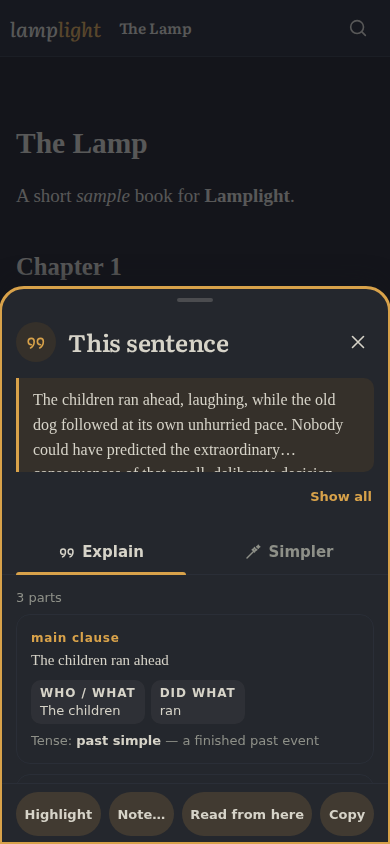
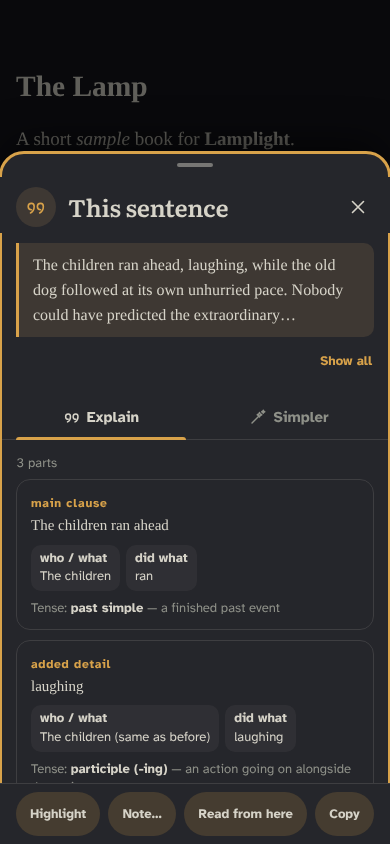
Phone reading screen: README, screenshot and version
The README describes the phone's reading screen (the strip, the lamp
and the dock), the Pages-flow gestures on a phone, the day and night
pair and its holds, zen's faint lamp, the two-tile More sheet, the
interface typeface and the phone Text sheet, and lists the new test
suites. The phone screenshot is remade, the service worker's version
goes up so installed copies update, and a leftover e-ink rule for the
old reading row is gone.

Claude-Session: https://claude.ai/code/session_01S84CT7SXHnTF63as5uaRsZ

diff --git a/app.css b/app.css
@@ -2510,10 +2510,8 @@
   body.eink :is(#updateToast #updateReload, #einkToast #einkYes){background:#000 !important; color:#fff;}
   body.eink :is(#updateToast #updateLater, #einkToast #einkNo){border-color:transparent;}
   body.eink #toast .toast-act{color:#000; border-color:#000;}
-  /* a playing sound's tile is white on black already: its icon keeps a plain line, no grey fill;
-     the rule over the reading row is solid black */
+  /* a playing sound's tile is white on black already: its icon keeps a plain line, no grey fill */
   body.eink .snd-tiles .chip[aria-pressed="true"] svg{fill:none;}
-  body.eink #actRow{border-top-color:#000 !important;}
   /* the sleep timer's badge stays a black pill with white words */
   body.eink #tts .tts-sleep{background:#000 !important; color:#fff; border:0 !important;}
   /* greyed-out controls are whole again; a disabled one is dashed (a hidden one stays hidden) */

diff --git a/sw.js b/sw.js
@@ -1,7 +1,7 @@
 /* lamplight service worker — offline cache for everything the app is made of.
    Bump VERSION with every release: a new version installs in the background, and the app
    shows an "update ready" toast; reloading switches over to the new cache. */
-const VERSION = "2026.10.02-44";
+const VERSION = "2026.10.08-1";
 const CACHE = "lamplight-" + VERSION;
 /* the natural voices' runtime (vendor/kokoro/: kokoro-js and the 21.6 MB ONNX runtime both models run on;
    vendor/piper/: the Piper runtime and the phonemizer), kept apart from this version's cache so that it outlives a

diff --git a/README.md b/README.md
@@ -17,7 +17,7 @@ Lamplight is a progressive web app made of plain static files: no server, no acc
   <img src="docs/screenshots/notes.png" alt="Highlights in the text and the Bookmarks & notes panel" width="410">
 </p>
 <p align="center">
-  <img src="docs/screenshots/themes.png" alt="The settings sheet with thirty themes in groups and the custom theme editor with its contrast meter" width="410">
+  <img src="docs/screenshots/themes.png" alt="The settings sheet with fifty themes in groups and the custom theme editor with its contrast meter" width="410">
   &nbsp;&nbsp;
   <img src="docs/screenshots/fonts.png" alt="The Fonts panel, every family shown in its own face" width="410">
 </p>
@@ -45,11 +45,11 @@ Lamplight is a progressive web app made of plain static files: no server, no acc
 ## Features
 
 **Reading**
-- A reader's shell that stays out of the way: a thin icon bar (search, contents, read aloud, **Aa** for type, the lamp for themes, the overflow menu), two popovers for the settings you change while reading, a tabbed settings sheet for the rest, one drawer for every panel, and a single dock at the foot holding the read-aloud bar and the pager. On a phone every one of them — the popovers, the settings, the menu, the panels and the word card — is a **bottom sheet** with a handle that you can **swipe down to close**.
-- **Made for one hand on a phone**: while a book is open, Contents, **Aa**, Read aloud, the lamp and ⋯ sit in a slim row at the foot of the screen, in reach of the thumb, and go and come back with the top bar. The top bar keeps the library, the **book's title** with the chapter under it (tap it to switch between open books) and Search. Read aloud stays one tap away on every phone; hold its button for the voices. Books are named by **their own title** — an EPUB's metadata, the first heading of a Markdown, HTML or DOCX file, a DOCX's document title — in the bar, the tabs, the library, the *Up next* card and the journal, falling back to the file name without its extension.
+- A reader's shell that stays out of the way, in one plain interface typeface (Atkinson Hyperlegible, made for legibility) and sentence case throughout: a thin icon bar (search, contents, read aloud, **Aa** for type, the lamp for themes, the overflow menu), two popovers for the settings you change while reading, a tabbed settings sheet for the rest, one drawer for every panel, and a single bar at the foot holding the read-aloud player and the pager. On a phone every one of them — the popovers, the settings, the menu, the panels and the word card — is a **bottom sheet** with a handle that you can **swipe down to close**, and the Text sheet is made for a thumb: large A− and A+ buttons, line spacing and margins as three pictured choices each, and four fonts shown in their own face.
+- **Made for one hand on a phone**: while a book is open the screen is the text, with no bar at the top. A slim strip at the foot holds the time left in the chapter and the **lamp**, a round button ringed with how far you are through the book. Tap the lamp and the **dock** rises, in reach of the thumb: back to the library, the **book's title** with the chapter under it (tap it to switch between open books), Search, a slider to any page, a **Day / Night** switch, and Contents, Text, Read aloud, Theme and More, each named under its icon. A tap outside, a swipe down or Escape puts it away. Hold Read aloud for the voices. Books are named by **their own title** — an EPUB's metadata, the first heading of a Markdown, HTML or DOCX file, a DOCX's document title — in the bar, the tabs, the library, the *Up next* card and the journal, falling back to the file name without its extension.
 - Opens **PDF, EPUB, DOCX, TXT, Markdown and HTML**. Saved web pages are reduced to clean reader text (menus, cookie banners, share bars and ads stripped).
-- **Scroll** or **Pages** flow (tap the left or right edge, or swipe sideways, to turn); two pages side by side on wide screens, for PDFs too. In Pages flow a swipe down — or a tap on the top or bottom edge of the page — brings the bars back and a swipe up hides them, so tapping a word in the middle of the page always looks it up.
-- **Fifty themes**: light (Day, Sepia, Paper, Parchment, Linen, Sage, Lavender, Sky, Peach, Newsprint, Mint…), dark (Dusk, Forest, Ocean, Plum, Midnight, Graphite, Ember, Moss, Cocoa, Slate, Candle, Terminal, Amber, Noir…), two high-contrast ones, and four **collections** — Dutch (Delft blue, Vermeer, Rembrandt, Tulip field, Polder, Canals), Nature and seasons, Cozy, and Textured (handmade paper, book cloth, laid paper and vellum, with a faint surface behind the text that **Plain background** turns off) — every one checked for 4.5:1 text contrast. **Auto theme** follows the system setting or a night schedule. The lamp's popover leads with a **Day ⇄ Night** pair (hold the lamp to switch without opening it, or press `t`), then your last few themes and every theme at once — on a phone a grid of round swatches with their names.
+- **Scroll** or **Pages** flow (tap the left or right edge, or swipe sideways, to turn); two pages side by side on wide screens, for PDFs too. In Pages flow a swipe down — or a tap on the top or bottom edge of the page — brings the bars back and a swipe up hides them; on a phone, which has no bars, a swipe up or a tap on blank space in the middle or at the foot of the page opens the dock. Tapping a word in the middle of the page always looks it up.
+- **Fifty themes**: light (Day, Sepia, Paper, Parchment, Linen, Sage, Lavender, Sky, Peach, Newsprint, Mint…), dark (Dusk, Forest, Ocean, Plum, Midnight, Graphite, Ember, Moss, Cocoa, Slate, Candle, Terminal, Amber, Noir…), two high-contrast ones, and four **collections** — Dutch (Delft blue, Vermeer, Rembrandt, Tulip field, Polder, Canals), Nature and seasons, Cozy, and Textured (handmade paper, book cloth, laid paper and vellum, with a faint surface behind the text that **Plain background** turns off) — every one checked for 4.5:1 text contrast. **Auto theme** follows the system setting or a night schedule, and a switch by hand while it is on lasts until its next change. Your **day and night themes** lead the lamp's popover, the one on screen marked; `t`, a hold on the lamp (on a phone, the round lamp button) or, on a phone, the dock's **Day / Night** switch moves between them and never changes the pair. Then come your last few themes and every theme at once — on a phone a grid of round swatches with their names.
 - A **custom theme editor**: colour pickers with hex fields for the background, text, accent and (under Advanced) the panel and secondary text, quick swatches and tint / brightness sliders, a **live contrast meter** that rates every pairing AAA / AA / Low and can fix a failing colour in one tap, and **as many saved custom themes as you like** (rename, duplicate, save as new, delete). The installed app's title bar follows the theme.
 - **Twenty-four fonts** in four groups — easy reading (**OpenDyslexic**, **Lexend**, **Atkinson Hyperlegible**, **Andika**), serif (Georgia, Palatino, Times, Literata, Source Serif, Lora, Merriweather, EB Garamond, Crimson Pro, Libre Baskerville, Bitter), sans (system, Helvetica / Arial, Verdana, Inter, IBM Plex Sans, Nunito) and mono (system, JetBrains Mono, IBM Plex Mono). Sixteen families are bundled as compact woff2 files and **loaded only when chosen**; the *Browse fonts…* panel shows each name in its own face. Text size, line spacing, column width, margins, justification and hyphenation; every size is in `rem`, so the phone's font-size setting scales the whole app.
 - **Songs in the book**: a chapter that opens on its song — `♪ “To Build a Home” — The Cinematic Orchestra`, `Song “Eye of the Tiger” — Survivor`, `Now playing: …`, `Nu speelt: …` and the like, in an EPUB, DOCX, HTML, Markdown or TXT book — becomes a soft pill you can tap to **play it in Spotify** (the app, else the web player); hold it for YouTube Music, Apple Music or to copy the name. A player drawn after it (◁◁ II ▷▷, ━━━●────, 1:32 / 3:45) is left out, and ordinary dialogue (“Hello,” — said Anna) is not mistaken for a song. **Soundtrack** in the menu lists every song in book order with its chapter, a jump to it and *Copy list* for a playlist. Read aloud says “Song: Eye of the Tiger, by Survivor”. The text itself is never changed, so positions, highlights and notes stay put.
@@ -59,7 +59,7 @@ Lamplight is a progressive web app made of plain static files: no server, no acc
 - **Extra dim**: a black film over the whole screen — bars, panels and toasts included — from 0 to 85 %, for when the phone's lowest brightness is still too bright in bed; on its own or only during your night window. Every on / off setting is a **switch** with its caption under it, and the rows that depend on one (the dim level, *Only at night* and its hours) step back while it is off.
 - **E-ink mode** for e-paper screens: pure black on white with no greys, tints, shadows, animation or smooth scrolling, highlights, notes, search hits and the sentence read aloud drawn as lines instead of fills, and whole-page turns in the Pages flow (tap the left third to go back, anywhere else to go on). Your own flow comes back when you turn it off, and a screen that reports a slow refresh is offered the mode once.
 - PDF zoom, and "soften" for PDF pages in dark themes.
-- **Zen mode** (`z`): only the text and the thin progress line, fullscreen where the browser allows it; Escape or `z` brings everything back.
+- **Zen mode** (`z`): only the text and the thin progress line, fullscreen where the browser allows it; Escape or `z` brings everything back. On a phone it is the text and a faint lamp: tap the lamp to leave.
 - **Print**: a print stylesheet turns any text document into clean black-on-white pages (title line, link addresses, highlights kept as a grey wash); PDFs open in a new tab for the browser's own print.
 
 **Understanding the text**
@@ -96,7 +96,7 @@ Lamplight is a progressive web app made of plain static files: no server, no acc
 - Reading **ruler**, **auto-scroll** at your pace (timed page turns in Pages flow), and a progress readout with **time left** from your measured reading speed.
 - **Speed reading** (`w`): one word at a time from where you are, each centred on its recognition point (that letter in the accent colour, under a small guide mark), at 150 to 900 words a minute; a little longer after commas, sentences, paragraphs and long words. Space or a tap plays and pauses, the arrows go back or on a sentence and change the speed, and Esc (or Back on a phone) closes it — the book then carries on from the word it stopped at, which is also kept if you leave the app with it open. Long compounds come in two or three parts.
 - **Background sounds**: rain, fire, a café, a forest at night and waves, made on the device as they play (no recordings, nothing to download). One switch turns them on or off; tap a sound's tile to start it or to add it to what is playing (again to take it out), with the blend of all five under *Mix* and a master volume. The menu's entry plays your last mix in one tap, and reads *Stop background sounds* while they play; *Sound mix…* beside it opens the panel. They play while a book is open, under read aloud too, fade in and out, pause when you leave the page, and are remembered.
-- The **⋯ menu** on a phone opens on four large tiles for what every sitting uses — Read aloud, Bookmark here, Contents, Previously… — then Reading, Tools and Lamplight, with Settings as the gear in its head.
+- The **More** sheet on a phone opens on two large tiles, Bookmark here and Previously… (the dock already has Read aloud, Contents, Search and the way back to the library), then Reading, Tools and Lamplight, with Settings as the gear in its head.
 - Screen wake lock while reading; keyboard shortcuts (`?` shows them all); works with reduced-motion and forced-colour settings.
 
 **As an app**
@@ -184,7 +184,7 @@ NODE_PATH=$(npm root -g) node tests/themes.js       # contrast audit of every bu
 NODE_PATH=$(npm root -g) node tests/wordparts.js    # 300 word decompositions (node only)
 ```
 
-plus `themes-browser.js`, `fonts.js`, `type2.js`, `speak.js` (with a stubbed speech engine and media session), `wordparts-browser.js`, `about.js`, `stats.js` and `stats2.js` (with Playwright's fake clock), `library2.js`, `notes2.js`, `journal.js` (the reading journal and its *Finished* card, against a fake clock), `reading.js` (speed reading and focus reading), `zen.js`, `print.js` (print media emulation), `translate.js` (stubbed translator and MyMemory routes, and the real Dutch ↔ English pack), `simplify.js`, `explain2.js`, `pace.js` (a simulated reader driven against a fake clock), `i18n.js` (the Dutch interface: the table, the main screens with no English left, switching the language at the same place), `ui-a/b/c.js` for the interface itself and `qol.js` for a phone in one hand (the reading row at the foot, long presses, swiping sheets down, the bars in Pages flow, Undo, one-tap sounds and themes). Each script starts its own server on a free port and exits non-zero on failure.
+plus `themes-browser.js`, `fonts.js`, `type2.js`, `speak.js` (with a stubbed speech engine and media session), `wordparts-browser.js`, `about.js`, `stats.js` and `stats2.js` (with Playwright's fake clock), `library2.js`, `notes2.js`, `journal.js` (the reading journal and its *Finished* card, against a fake clock), `reading.js` (speed reading and focus reading), `zen.js`, `print.js` (print media emulation), `translate.js` (stubbed translator and MyMemory routes, and the real Dutch ↔ English pack), `simplify.js`, `explain2.js`, `pace.js` (a simulated reader driven against a fake clock), `i18n.js` (the Dutch interface: the table, the main screens with no English left, switching the language at the same place), `ui-a/b/c.js` for the interface itself, `qol.js` for a phone in one hand (the dock's tools, long presses, swiping sheets down, opening the dock in Pages flow, Undo, one-tap sounds and themes), `phonedock.js` for the phone reading screen (the strip, the lamp and its ring, the dock, its gestures, read aloud, zen, the modes and the narrowest widths), `textsheet.js` for the phone Text sheet, `daynight.js` for the Day/Night switch and Auto's hold, and `look.js` for the interface typeface and sentence case. Each script starts its own server on a free port and exits non-zero on failure.
 
 `tests/screenshots.js` remakes the pictures at the top of this file from the running app, so they never drift from it (`node tests/screenshots.js` for all of them, or name the ones you want). It writes into `docs/screenshots/`, so `tests/all.js` leaves it out: run it on its own when the pictures should change.
 
